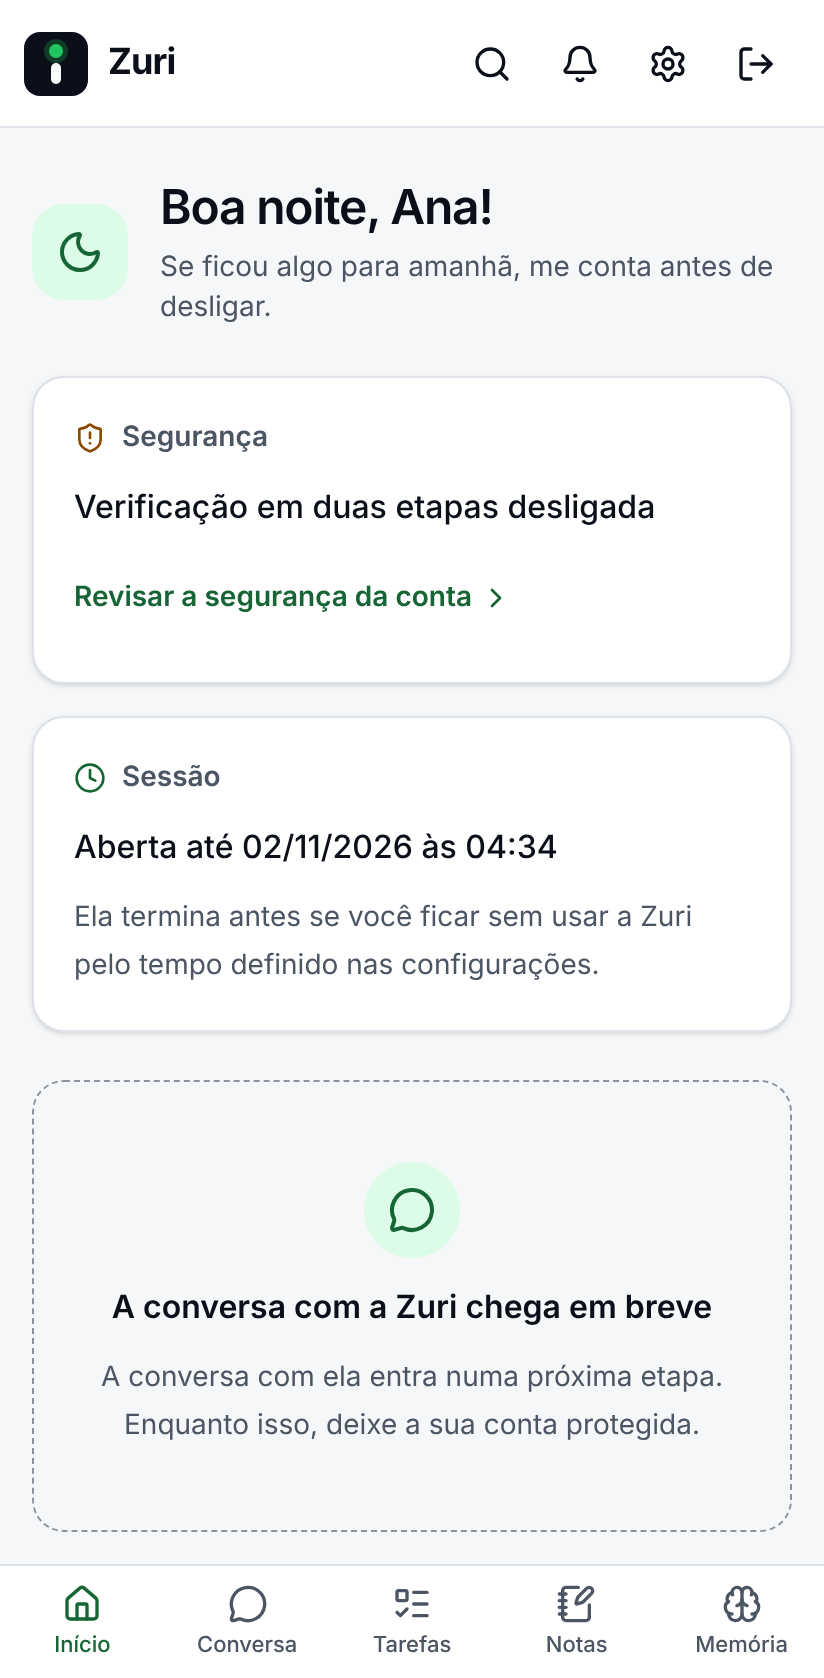
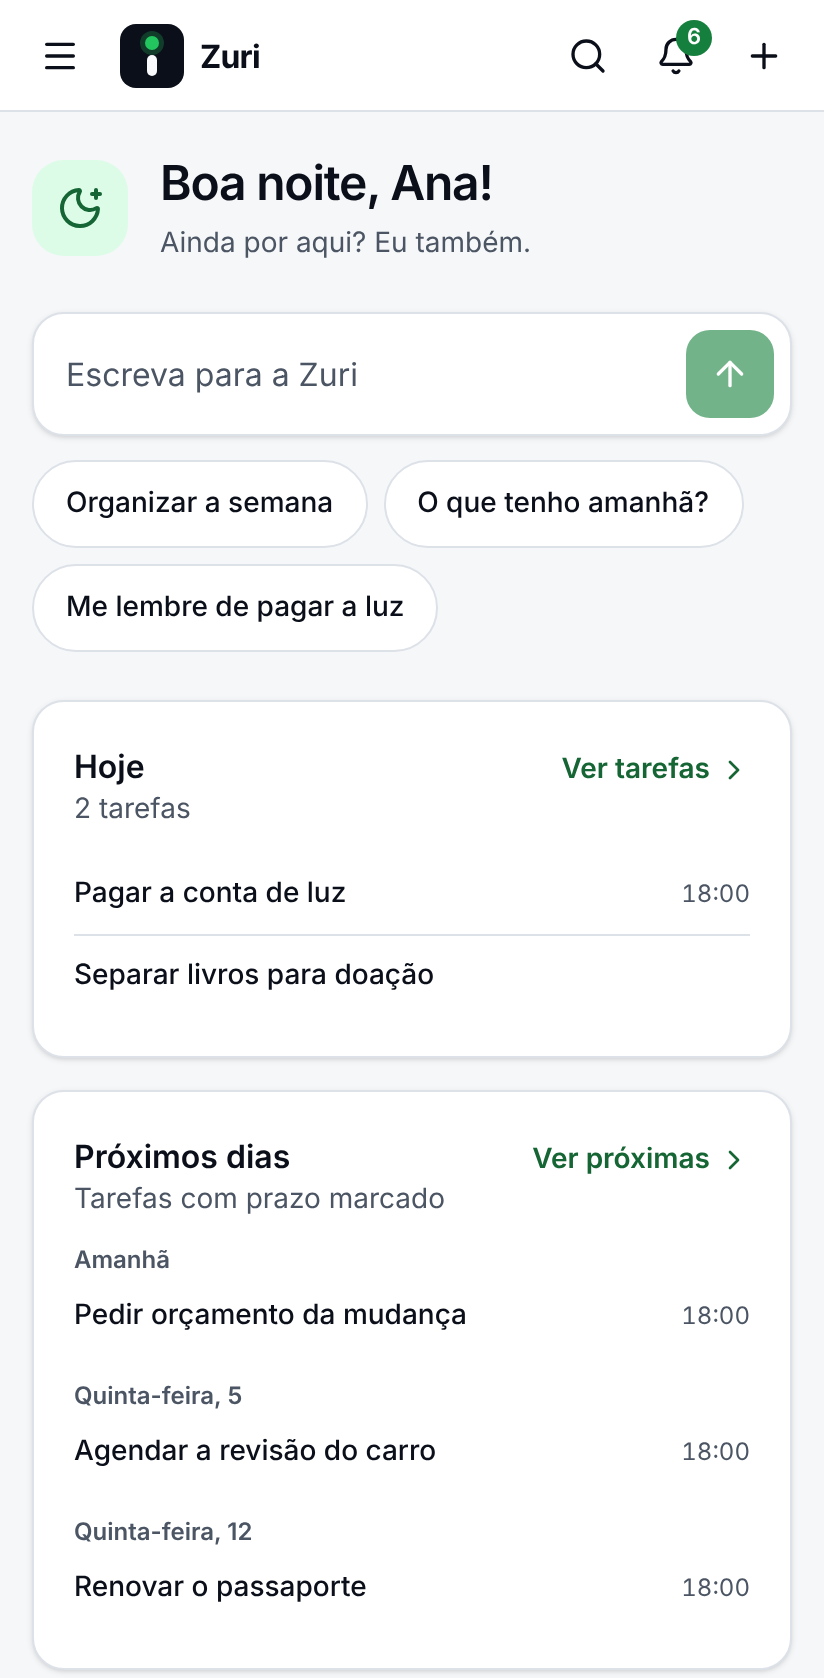
docs: capturas da nova interface e dia da semana com só a primeira letra maiúscula
Capturas de antes e depois em docs/capturas/pr/project-thread-y4hh8h e as
do README refeitas. "Quinta-Feira" no Início vira "Quinta-feira".

Claude-Session: https://claude.ai/code/session_012XDDEevUdwCHnLgrsfyPNH

diff --git a/apps/web/src/pages/home/HomeBody.tsx b/apps/web/src/pages/home/HomeBody.tsx
@@ -160,7 +160,7 @@ function NextDaysCard() {
         <div className="space-y-3">
           {[...days].map(([label, items]) => (
             <div key={label}>
-              <h3 className="text-xs font-semibold capitalize text-fg-muted">{label}</h3>
+              <h3 className="text-xs font-semibold text-fg-muted first-letter:uppercase">{label}</h3>
               <TaskLines tasks={items} now={now} />
             </div>
           ))}

diff --git a/docs/planos/nova-ui.md b/docs/planos/nova-ui.md
@@ -274,5 +274,5 @@ Decisões técnicas desta PR:
 - O texto que chega do Início ou da busca segue o limite da conversa (`CHAT_MESSAGE_MAX`, 8.000 caracteres, não os 4.000 da seção 6): até ele, vai direto; acima, espera no campo da conversa com o contador.
 - O tema no menu da conta troca entre claro e escuro desta máquina, como em Configurações › Conta.
 - O texto "Avisos, canais" ficou "O sino do app sempre recebe tudo. Cada canal mostra se está ligado.", e "Ideias para começar" nomeia as sugestões do Início.
-- JS inicial: de 138.181 B para 138.935 B (teto 139.100 B). O corpo do Início vem sob demanda para caber.
+- JS inicial: 138.992 B depois de trazer a develop 0.25.6 (teto 139.100 B). O corpo do Início vem sob demanda para caber.
 
